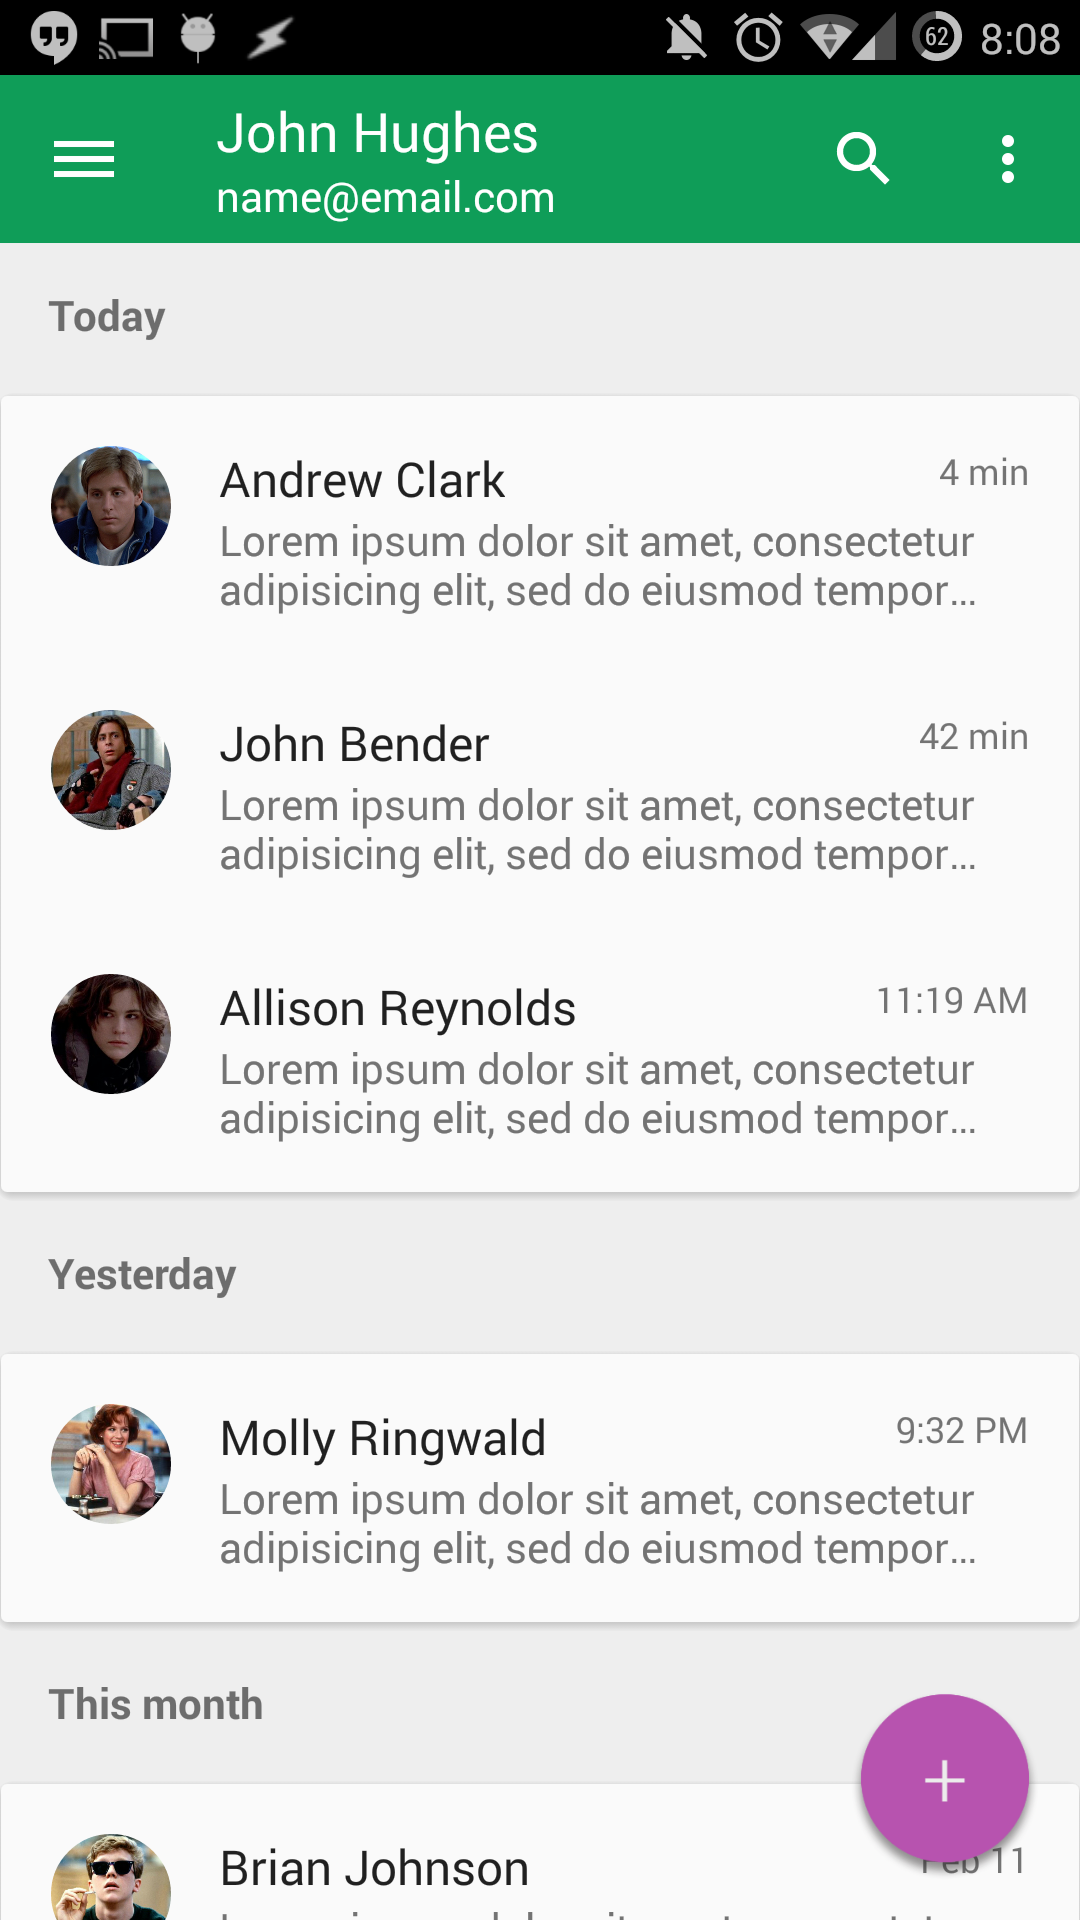
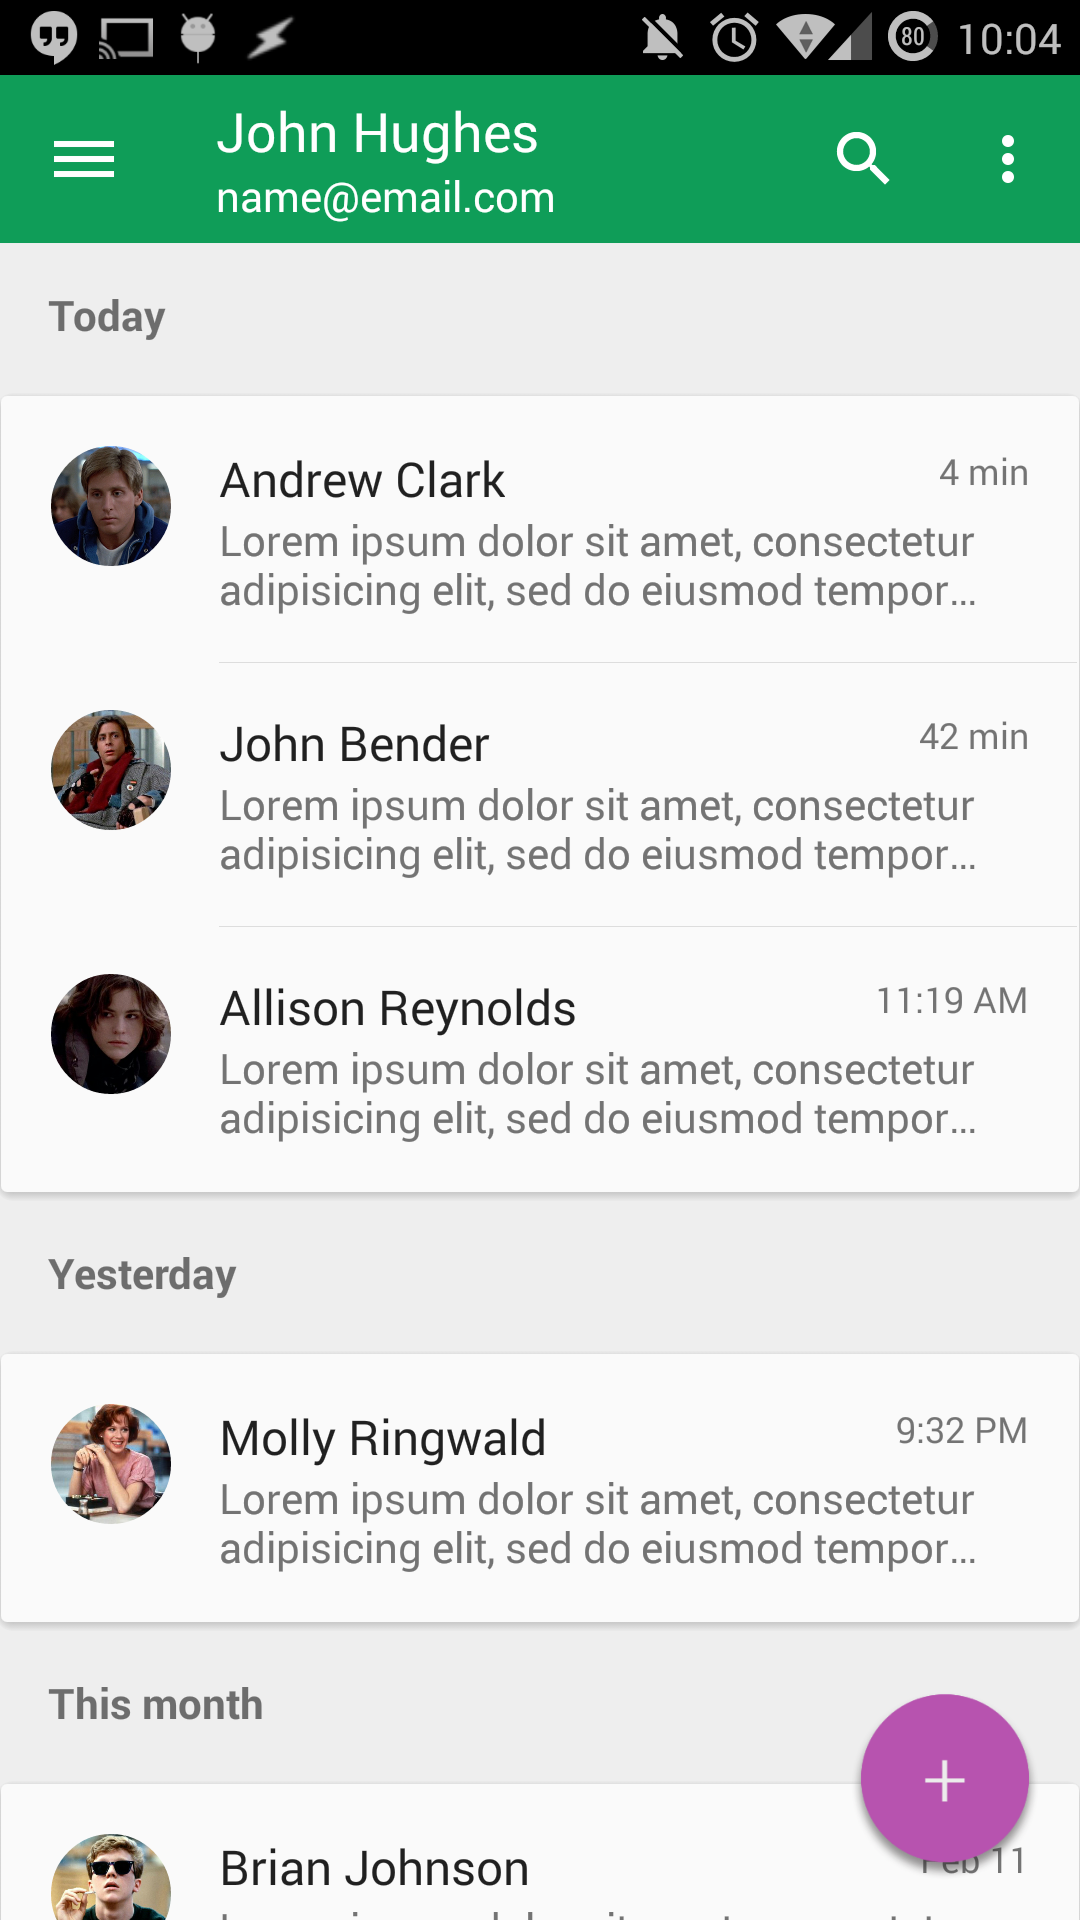
Add message snippet dividers (RecyclerView Item Decoration), remove unused log statements

Changed region(s): [[0.5806, 0.0, 0.9167, 0.0312], [0.9472, 0.0, 0.9778, 0.0312]]

diff --git a/app/src/main/java/com/ekc/hangoutsprototype/MessageSetAdapter.java b/app/src/main/java/com/ekc/hangoutsprototype/MessageSetAdapter.java
@@ -1,8 +1,14 @@
 package com.ekc.hangoutsprototype;
 
+import android.content.Context;
+import android.content.res.Resources;
+import android.graphics.Canvas;
+import android.graphics.Color;
+import android.graphics.Paint;
 import android.support.v7.widget.CardView;
 import android.support.v7.widget.LinearLayoutManager;
 import android.support.v7.widget.RecyclerView;
+import android.util.Log;
 import android.view.LayoutInflater;
 import android.view.View;
 import android.view.ViewGroup;
@@ -22,6 +28,10 @@ public class MessageSetAdapter extends RecyclerView.Adapter<MessageSetAdapter.Vi
     private static final HashMap<String, ArrayList<Message>> MAP = new HashMap<>();
 
     private RecyclerView.LayoutManager mLayoutManager;
+    private Context mContext;
+    private Resources mResources;
+    private float mAvatarWidth;
+
 
     public MessageSetAdapter() {
         for (String d : DATES) {
@@ -40,7 +50,10 @@ public class MessageSetAdapter extends RecyclerView.Adapter<MessageSetAdapter.Vi
         mLayoutManager = new ChildLinearLayoutManager(viewGroup.getContext(),
                 LinearLayoutManager.VERTICAL,
                 false);
-        View v = LayoutInflater.from(viewGroup.getContext()).inflate(R.layout.message_set,
+        mContext = viewGroup.getContext();
+        mResources = mContext.getResources();
+        mAvatarWidth = mResources.getDimension(R.dimen.avatarWidth);
+        View v = LayoutInflater.from(mContext).inflate(R.layout.message_set,
                 viewGroup, false);
 
         ViewHolder vh = new ViewHolder(v);
@@ -49,12 +62,34 @@ public class MessageSetAdapter extends RecyclerView.Adapter<MessageSetAdapter.Vi
     }
 
     @Override
-    public void onBindViewHolder(ViewHolder viewHolder, int i) {
+    public void onBindViewHolder(final ViewHolder viewHolder, int i) {
         String date = DATES[i];
         MessageSnippetAdapter messageSnippetAdapter = new MessageSnippetAdapter(MAP.get(date));
         viewHolder.mDateTextView.setText(date);
         viewHolder.mMessageRecyclerView.setLayoutManager(mLayoutManager);
         viewHolder.mMessageRecyclerView.setAdapter(messageSnippetAdapter);
+        viewHolder.mMessageRecyclerView.setHasFixedSize(true);
+
+        // Add row separators
+        final Paint paint = new Paint();
+        paint.setColor(mResources.getColor(R.color.divider));
+        viewHolder.mMessageRecyclerView.addItemDecoration(new RecyclerView.ItemDecoration() {
+            @Override
+            public void onDrawOver(Canvas c, RecyclerView parent, RecyclerView.State state) {
+                super.onDrawOver(c, parent, state);
+                int childCount = parent.getChildCount();
+
+                for (int i = 0; i < childCount; i++) {
+                    View child = parent.getChildAt(i);
+                    float y = child.getHeight() + child.getY();
+                    c.drawLine(child.getX() + mAvatarWidth,
+                            y,
+                            child.getWidth(),
+                            y,
+                            paint);
+                }
+            }
+        });
     }
 
     @Override

diff --git a/app/src/main/java/com/ekc/hangoutsprototype/ChildLinearLayoutManager.java b/app/src/main/java/com/ekc/hangoutsprototype/ChildLinearLayoutManager.java
@@ -30,11 +30,11 @@ public class ChildLinearLayoutManager extends LinearLayoutManager {
         final int widthSize = View.MeasureSpec.getSize(widthSpec);
         final int heightSize = View.MeasureSpec.getSize(heightSpec);
 
-        Log.i(TAG, "onMeasure called. \nwidthMode " + widthMode
-                + " \nheightMode " + heightSpec
-                + " \nwidthSize " + widthSize
-                + " \nheightSize " + heightSize
-                + " \ngetItemCount() " + getItemCount());
+//        Log.i(TAG, "onMeasure called. \nwidthMode " + widthMode
+//                + " \nheightMode " + heightSpec
+//                + " \nwidthSize " + widthSize
+//                + " \nheightSize " + heightSize
+//                + " \ngetItemCount() " + getItemCount());
 
         int width = 0;
         int height = 0;

diff --git a/app/src/main/java/com/ekc/hangoutsprototype/CircleImageView.java b/app/src/main/java/com/ekc/hangoutsprototype/CircleImageView.java
@@ -33,12 +33,12 @@ public class CircleImageView extends ImageView {
 
     public CircleImageView(Context context) {
         super(context);
-        Log.i(TAG, "constructor 0");
+//        Log.i(TAG, "constructor 0");
     }
 
     public CircleImageView(Context context, AttributeSet attrs) {
         super(context, attrs);
-        Log.i(TAG, "constructor 1");
+//        Log.i(TAG, "constructor 1");
 
         final TypedArray a = context.obtainStyledAttributes(attrs, R.styleable.CircleImageView);
 
@@ -61,7 +61,7 @@ public class CircleImageView extends ImageView {
     public CircleImageView(Context context, AttributeSet attrs, int defStyleAttr) {
         super(context, attrs, defStyleAttr);
 
-        Log.i(TAG, "constructor 2");
+//        Log.i(TAG, "constructor 2");
     }
 
     @Override

diff --git a/app/src/main/java/com/ekc/hangoutsprototype/MessageSnippetAdapter.java b/app/src/main/java/com/ekc/hangoutsprototype/MessageSnippetAdapter.java
@@ -75,7 +75,7 @@ public class MessageSnippetAdapter extends RecyclerView.Adapter<MessageSnippetAd
             }
         });
         viewHolder.mImageView.setImageResource(message.mPicResourceId);
-        Log.i(TAG, "bind view height " + viewHolder.mView.getLayoutParams().height);
+//        Log.i(TAG, "bind view height " + viewHolder.mView.getLayoutParams().height);
     }
 
     @Override

diff --git a/app/src/main/java/com/ekc/hangoutsprototype/MessageSetFragment.java b/app/src/main/java/com/ekc/hangoutsprototype/MessageSetFragment.java
@@ -79,6 +79,7 @@ public class MessageSetFragment extends Fragment {
         setupDrawerToggle();
 
         mRecyclerView = (RecyclerView) rootView.findViewById(R.id.message_set_container);
+        mRecyclerView.setHasFixedSize(true);
 
         mLayoutManager = new LinearLayoutManager(getActivity());
         mRecyclerView.setLayoutManager(mLayoutManager);

diff --git a/README.md b/README.md
@@ -8,4 +8,4 @@ Known issues (may be resolved in the future):
  - Conversation UI not polished (just shows the same snippet with a transition to that layout + edit text box)
  - Compose transition not written (would be similar to the transition done in Inbox)
 
-<img src="/images/hangouts.png" height="461px" width="270px">
+<img src="/images/hangouts.png" height="480px" width="270px">
